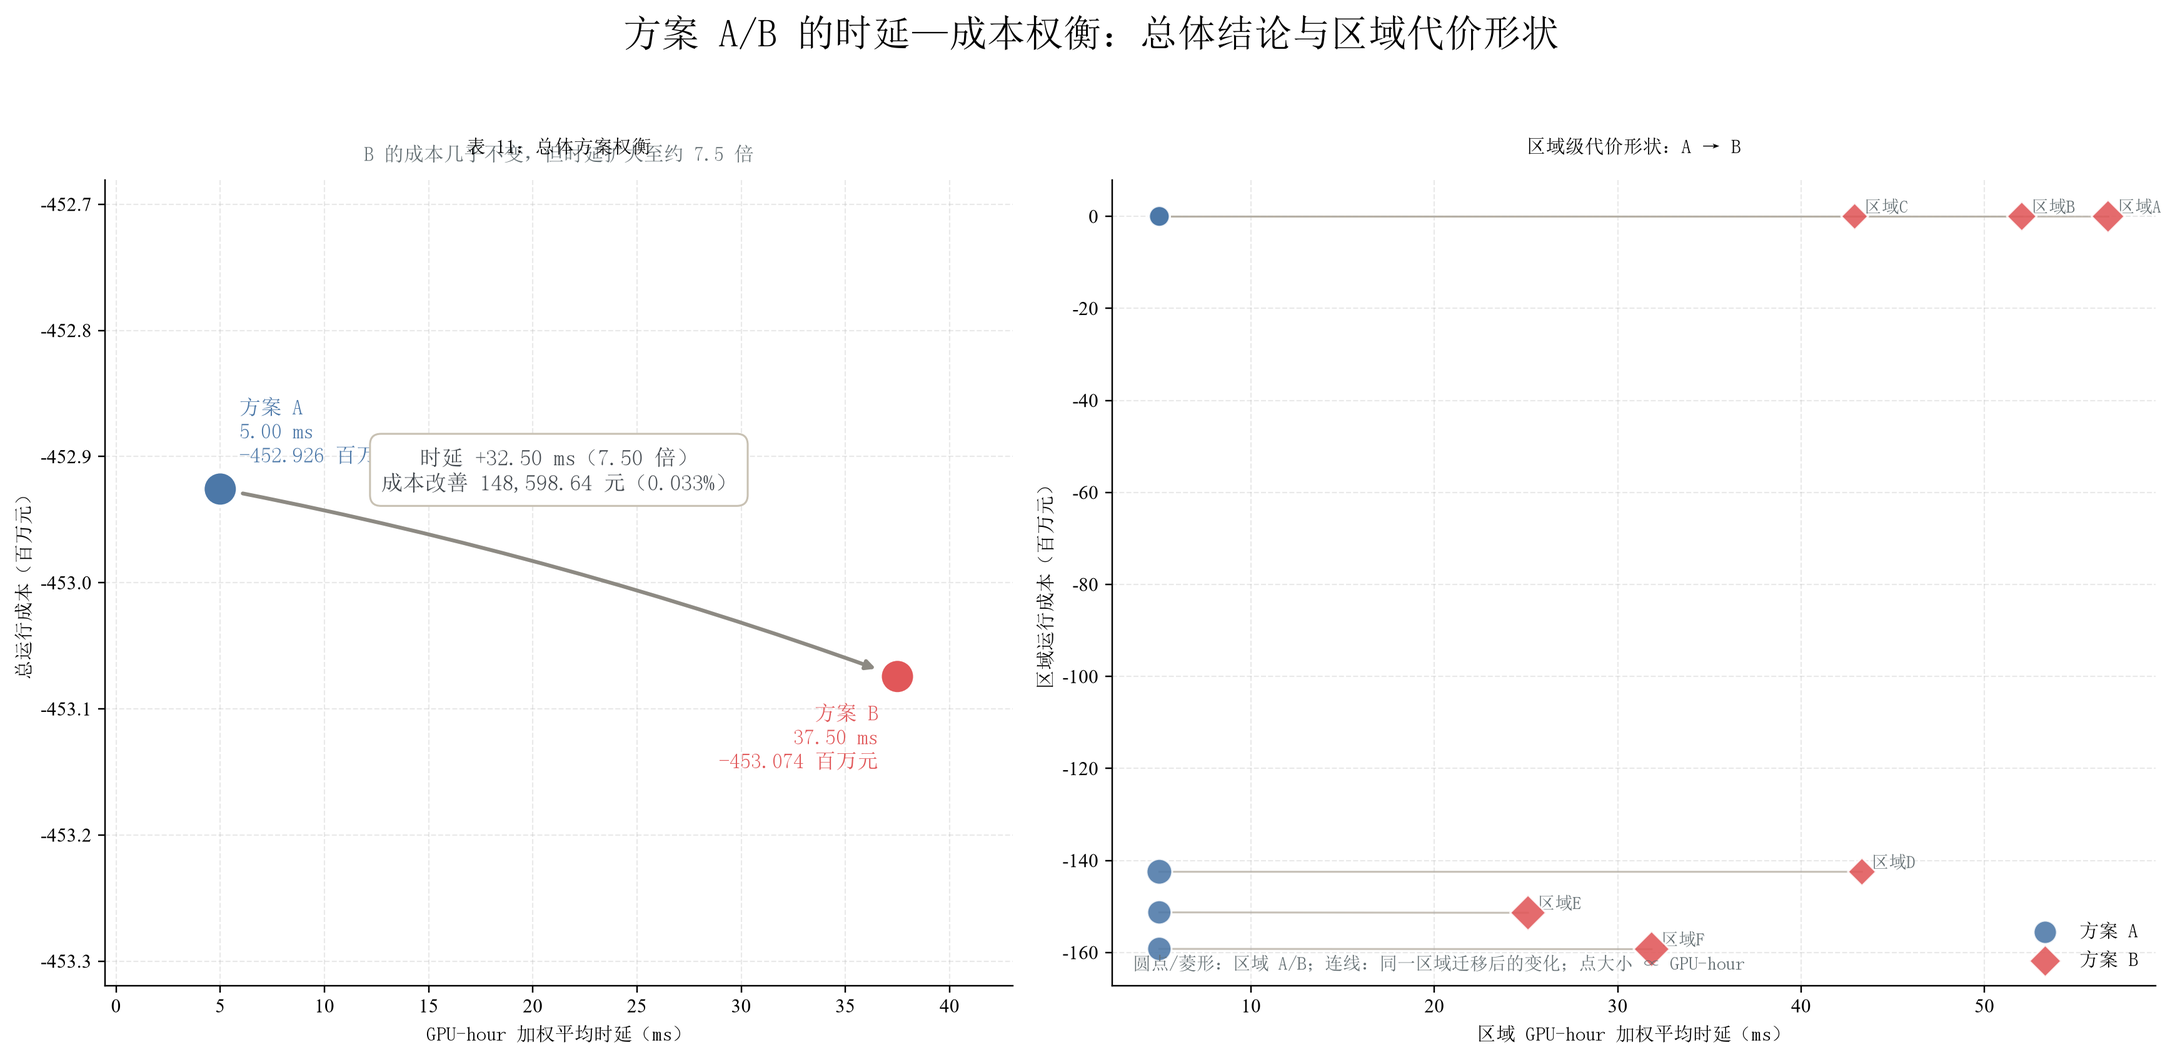
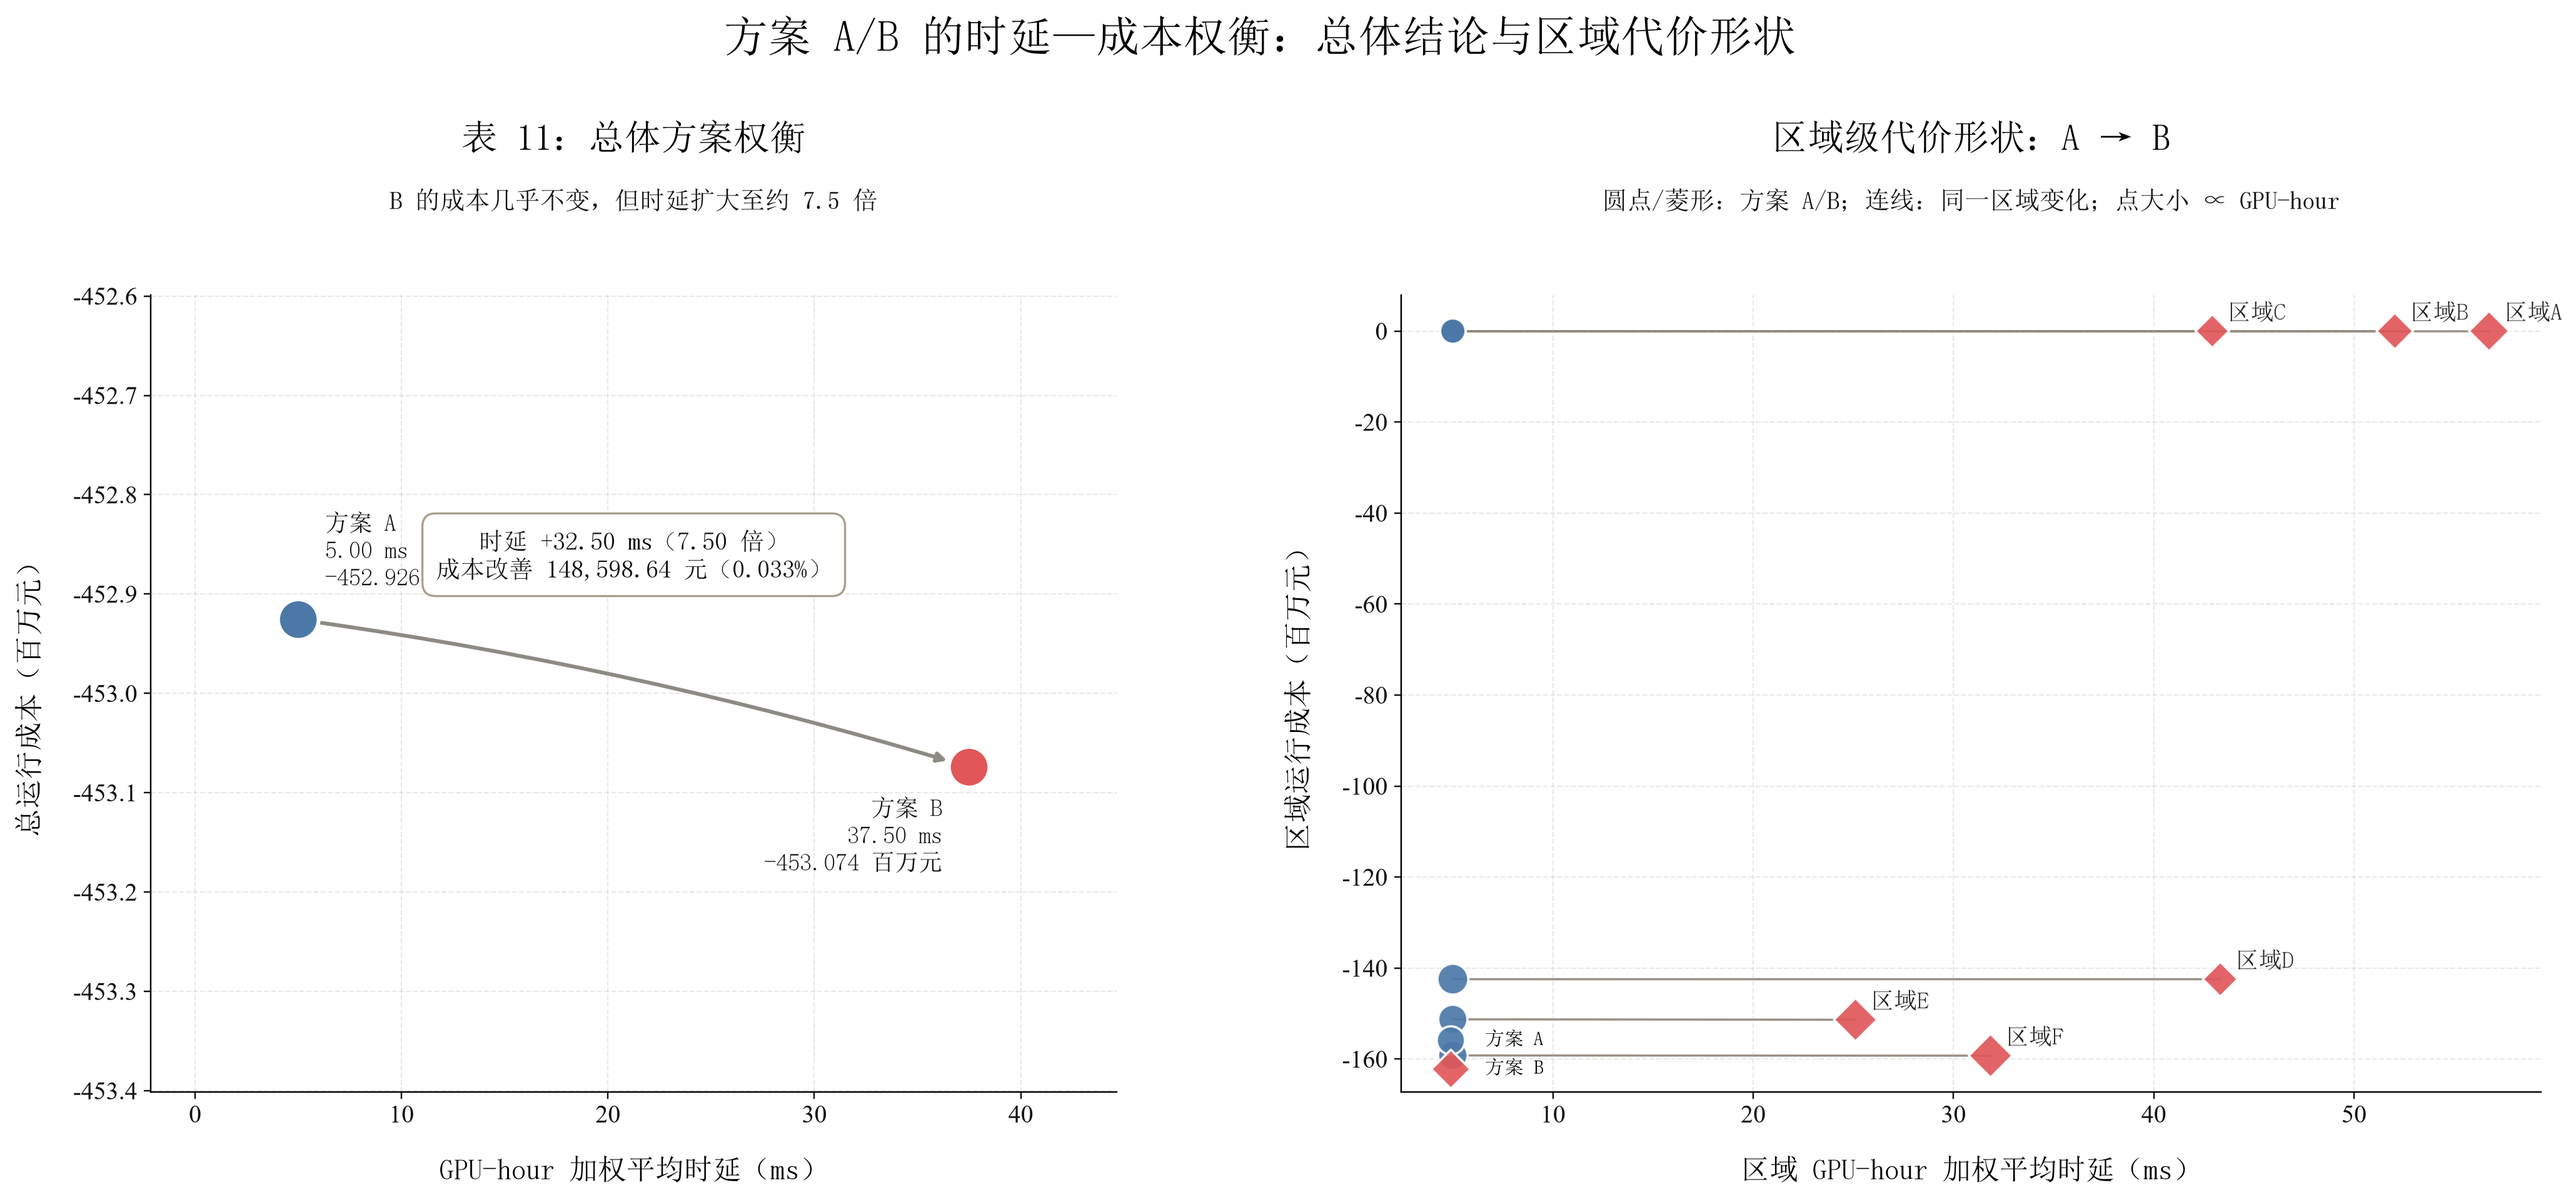
整理问题二权衡图布局

diff --git a/t2/dataToImg.py b/t2/dataToImg.py
@@ -271,7 +271,7 @@ def make_scheme_tradeoff_plot(
     cost_change_rate = abs(cost_delta) / abs(cost_a) * 100
 
     fig, (global_ax, regional_ax) = plt.subplots(
-        1, 2, figsize=(19.2, 8.8), facecolor="#FFFFFF",
+        1, 2, figsize=(19.2, 9.2), facecolor="#FFFFFF",
         gridspec_kw={"width_ratios": [1.0, 1.18]},
     )
     for ax in (global_ax, regional_ax):
@@ -309,12 +309,9 @@ def make_scheme_tradeoff_plot(
     y_pad = max(abs(global_y[1] - global_y[0]) * 2.2, 0.11)
     global_ax.set_xlim(latency_a - x_pad, latency_b + x_pad)
     global_ax.set_ylim(min(global_y) - y_pad, max(global_y) + y_pad)
-    global_ax.set_xlabel("GPU-hour 加权平均时延（ms）", fontsize=14.5, labelpad=14, fontproperties=zh_font)
-    global_ax.set_ylabel("总运行成本（百万元）", fontsize=14.5, labelpad=16, fontproperties=zh_font)
-    global_ax.set_title("表 11：总体方案权衡", fontsize=19, fontweight="bold", pad=24, color="#000000", fontproperties=zh_font)
-    global_ax.text(0.5, 1.12, "B 的成本几乎不变，但时延扩大至约 7.5 倍",
-                   transform=global_ax.transAxes, ha="center", va="bottom",
-                   fontsize=11.6, color="#111111", fontproperties=zh_font)
+    global_ax.set_xlabel("GPU-hour 加权平均时延（ms）", fontsize=15, labelpad=14, fontproperties=zh_font)
+    global_ax.set_ylabel("总运行成本（百万元）", fontsize=15, labelpad=16, fontproperties=zh_font)
+    global_ax.set_title("")
 
     # 右面板：区域级分解，展示“代价形状”，不与总体点混用坐标。
     energy_cost = {
@@ -353,20 +350,38 @@ def make_scheme_tradeoff_plot(
                             s=95 + 165 * (part["GPU_h"] / max(part["GPU_h"].max(), 1)) ** 0.5,
                             color=colors[scheme], edgecolors="white", linewidths=1.2,
                             alpha=0.92, label=scheme, zorder=3)
-    regional_ax.set_xlabel("区域 GPU-hour 加权平均时延（ms）", fontsize=14.5, labelpad=14, fontproperties=zh_font)
-    regional_ax.set_ylabel("区域运行成本（百万元）", fontsize=14.5, labelpad=16, fontproperties=zh_font)
-    regional_ax.set_title("区域级代价形状：A → B", fontsize=19, fontweight="bold", pad=24, color="#000000", fontproperties=zh_font)
-    regional_ax.legend(prop=zh_font, frameon=False, loc="lower left", bbox_to_anchor=(0.02, 0.01), borderaxespad=0)
-    regional_ax.text(0.02, 0.985, "圆点/菱形：区域 A/B；连线：同一区域迁移后的变化；点大小 ∝ GPU-hour",
-                     transform=regional_ax.transAxes, fontsize=11.6, color="#111111", fontproperties=zh_font, va="top")
+    regional_ax.set_xlabel("区域 GPU-hour 加权平均时延（ms）", fontsize=15, labelpad=14, fontproperties=zh_font)
+    regional_ax.set_ylabel("区域运行成本（百万元）", fontsize=15, labelpad=16, fontproperties=zh_font)
+    regional_ax.set_title("")
+    regional_ax.legend(prop=zh_font, fontsize=13, frameon=False, loc="lower left", bbox_to_anchor=(0.02, 0.01), borderaxespad=0)
 
     for ax in (global_ax, regional_ax):
         apply_tick_font(ax, en_font)
-        ax.tick_params(axis="both", labelsize=12.5, colors="#111111")
-    fig.subplots_adjust(left=0.08, right=0.985, top=0.79, bottom=0.12, wspace=0.27)
-    fig.suptitle("方案 A/B 的时延—成本权衡：总体结论与区域代价形状",
-                 fontsize=22, fontweight="bold", color="#000000", y=0.96, fontproperties=zh_font)
-    fig.tight_layout(rect=[0.02, 0.03, 0.985, 0.79])
+        ax.tick_params(axis="both", labelsize=13, colors="#111111")
+
+    # 标题、分标题、说明和绘图区使用互不重叠的固定图级行。
+    fig.subplots_adjust(left=0.08, right=0.985, top=0.75, bottom=0.12, wspace=0.27)
+    global_bounds = global_ax.get_position()
+    regional_bounds = regional_ax.get_position()
+    global_center = (global_bounds.x0 + global_bounds.x1) / 2
+    regional_center = (regional_bounds.x0 + regional_bounds.x1) / 2
+
+    fig.text(0.5, 0.955, "方案 A/B 的时延—成本权衡：总体结论与区域代价形状",
+             ha="center", va="center", fontsize=23, fontweight="bold",
+             color="#000000", fontproperties=zh_font)
+    fig.text(global_center, 0.875, "表 11：总体方案权衡",
+             ha="center", va="center", fontsize=19, fontweight="bold",
+             color="#000000", fontproperties=zh_font)
+    fig.text(regional_center, 0.875, "区域级代价形状：A → B",
+             ha="center", va="center", fontsize=19, fontweight="bold",
+             color="#000000", fontproperties=zh_font)
+    fig.text(global_center, 0.825, "B 的成本几乎不变，但时延扩大至约 7.5 倍",
+             ha="center", va="center", fontsize=13, color="#111111",
+             fontproperties=zh_font)
+    fig.text(regional_center, 0.825,
+             "圆点/菱形：方案 A/B；连线：同一区域变化；点大小 ∝ GPU-hour",
+             ha="center", va="center", fontsize=13, color="#111111",
+             fontproperties=zh_font)
     fig.savefig(plot_dir / "方案甲乙时延成本权衡图.png", dpi=220,
                 bbox_inches="tight", facecolor=fig.get_facecolor())
     plt.close(fig)
